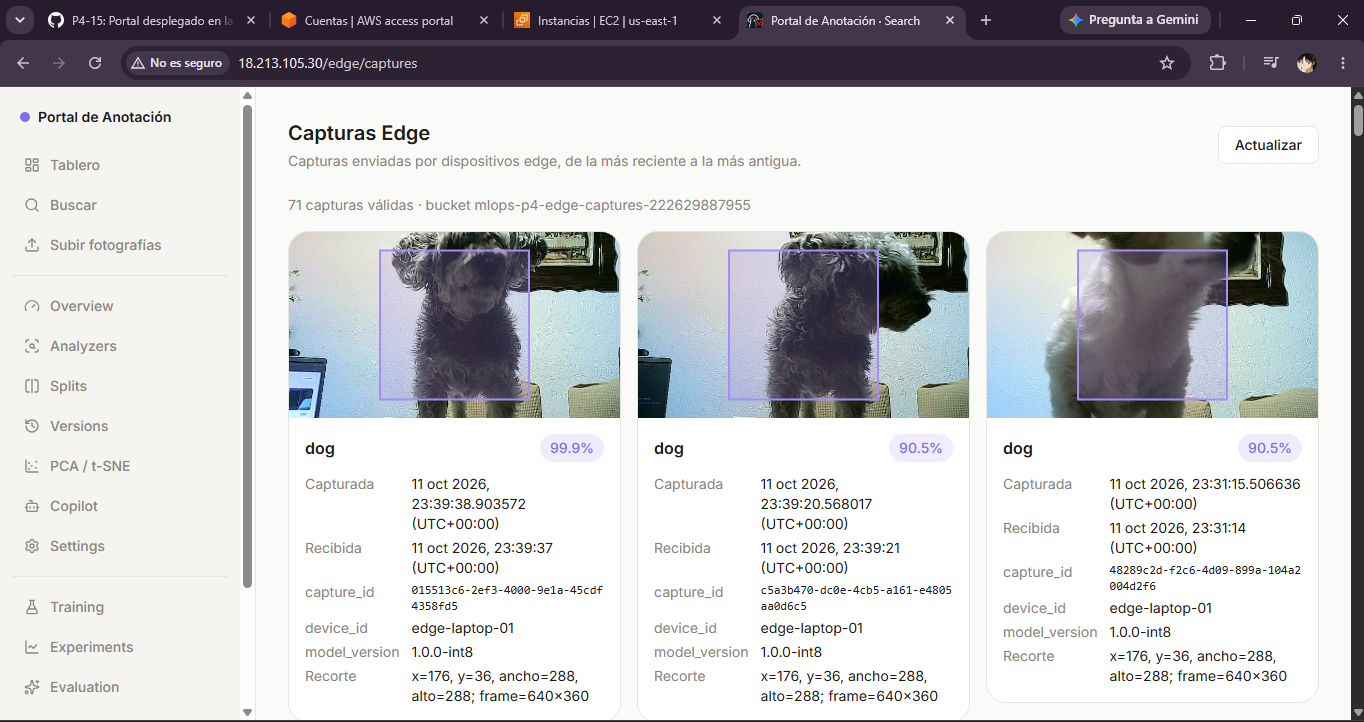
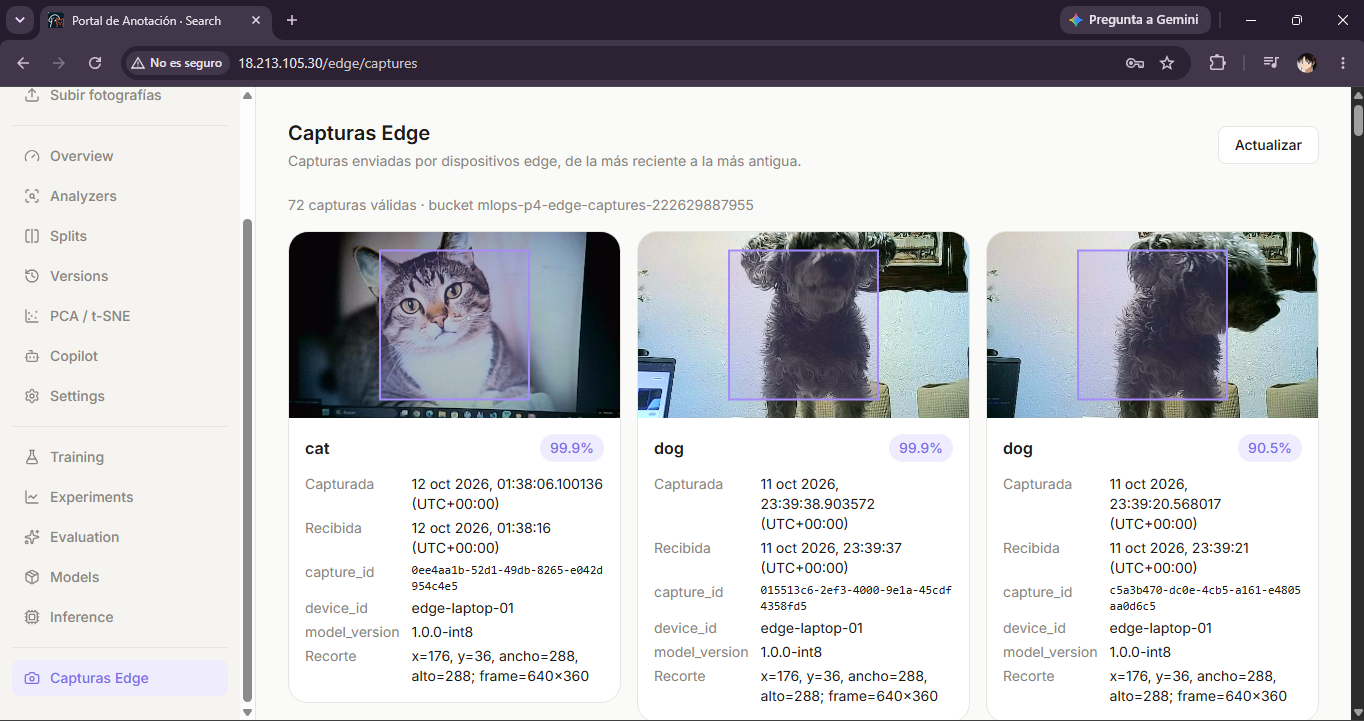
P4-16: captura actual del portal con el gato y perfil mlops-p3 unificado

diff --git a/reports/p4/operation/portal-aws/README.md b/reports/p4/operation/portal-aws/README.md
@@ -35,15 +35,15 @@ sesión del 11 de octubre se tomaron otras tres capturas del mismo perro (`085a6
 | `events_s3.json` | Evento de cada ID leído de S3 (`aws s3 cp`) |
 | `portal_items.json` | Respuesta del portal de AWS (`GET /ml-api/edge/captures?limit=100`) para los 5 IDs, **sin `image_url`** (URL prefirmada) |
 | `trazabilidad.md` | Tabla log local / S3 / portal generada por el script |
-| `portal_aws_capturas.png` | Capturas Edge en el navegador, con la URL de AWS visible y las capturas nuevas arriba |
+| `portal_aws_capturas.png` | Capturas Edge en el navegador, con la URL de AWS visible y las dos capturas nuevas arriba (gato `0ee4aa1b…` y perro `015513c6…`) |
 
 ## Cómo se generó
 
-Con el perfil SSO de `MLOpsP3` para leer S3 y el usuario del portal en variables de entorno
+Con el perfil SSO `mlops-p3` (rol `MLOpsP3`) para leer S3 y el usuario del portal en variables de entorno
 (la contraseña se entrega por privado y no se escribe en ningún archivo):
 
 ```bash
-AWS_PROFILE=mlops-p4 PORTAL_USER=evaluador PORTAL_PASSWORD=... \
+AWS_PROFILE=mlops-p3 PORTAL_USER=evaluador PORTAL_PASSWORD=... \
   python3 scripts/p4_e2e_report.py --out reports/p4/operation/portal-aws \
   --portal http://18.213.105.30 --solo-trazabilidad \
   d9bd109d-784e-426f-acb5-8743e44fef1e 3e60aa20-2b0e-4ed7-bf02-2ff3f2d6f02e \
